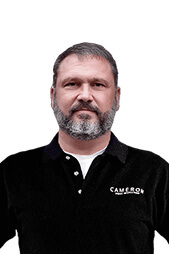
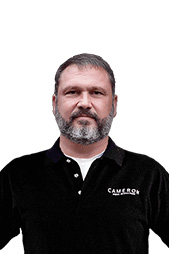
circle image switch out in mobile

diff --git a/index.html b/index.html
@@ -80,7 +80,10 @@
 	<!--      QUOTE 1     -->
 
 	<section class="quote-container">
-		<img class="realtor-image delay-200 animate slide-in" src="img/real-estate-agent.jpg" alt="Nashville Real Estate Agent">
+	<picture class="delay-200 animate slide-in">
+			<source media="(min-width: 715px)" srcset="img/real-estate-agent.jpg">
+			<img class="realtor-image delay-200 animate slide-in" src="img/eric-circle-mobile.jpg" alt="Nashville Real Estate Agent">
+		</picture>
 		<h3 class="quote animate slide-up">Nashville’s top agents use Cameron Home Inspection for their own personal home purchases &#8212; they know Eric goes above and beyond, performing the most comprehensive home inspection in the state.</h3>
 	</section>
 
